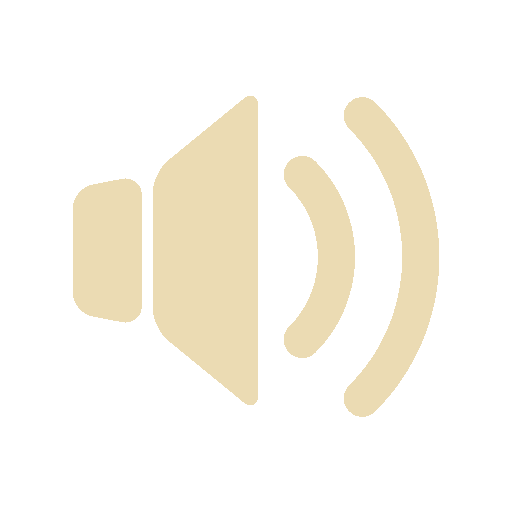
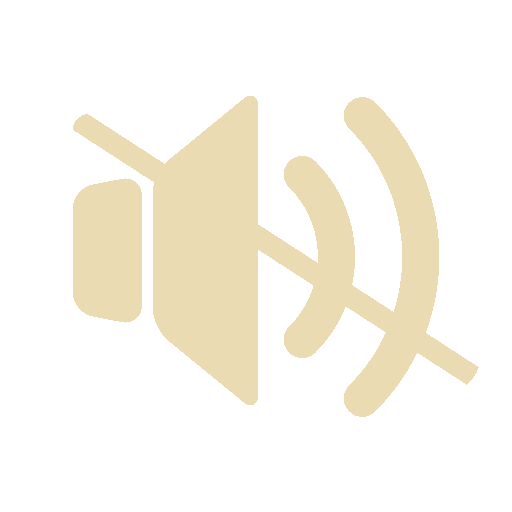
setting子buttong

diff --git a/CoreAnimationLearning/ViewController.m b/CoreAnimationLearning/ViewController.m
@@ -21,6 +21,7 @@
 
 @interface ViewController ()<UIAlertViewDelegate,IAPManagerDelegate,GameCenterDelegate>
 @property(nonatomic,assign) BOOL isUserHavedLoginGameCenter;
+@property(nonatomic,assign) BOOL voiceClosed;
 @end
 
 @implementation ViewController
@@ -128,13 +129,20 @@
     
     
     UIView *baseView = [self.view viewWithTag:30001];
+    NSArray *subViews = [baseView subviews];
     
     if (baseView) {
         [UIView animateWithDuration:1 delay:0 usingSpringWithDamping:0.4 initialSpringVelocity:10 options:UIViewAnimationOptionCurveEaseIn animations:^{
             buttonSetting.transform = CGAffineTransformIdentity;
-            baseView.alpha = 0.0;
         } completion:^(BOOL isFinish){
             [baseView removeFromSuperview];
+        }];
+        
+        [UIView animateWithDuration:0.3 animations:^{
+            for (UIView *subView in subViews) {
+                subView.frame = CGRectMake(0, 0, 0, 0);
+            }
+            baseView.frame = CGRectMake(buttonSetting.frame.origin.x + buttonSetting.frame.size.width, buttonSetting.frame.origin.y+buttonSetting.frame.size.height, 0, 0);
         }];
     }
     else{
@@ -176,11 +184,35 @@
             buttonSetting.transform = CGAffineTransformMakeRotation(M_PI);
             baseView.frame = CGRectMake(baseViewWidthInsert, buttonSetting.frame.size.height + buttonSetting.frame.origin.y + baseViewHeightInsert, baseViewWidth, baseViewHeight);
             for (int i = 0; i < count; i++) {
+                UIImage *buttonImage = [UIImage imageNamed:[NSString stringWithFormat:@"image_setting_%d",i+1]];
                 UIButton *subButton = [mutArray objectAtIndex:i];
+                [subButton setImage:buttonImage forState:UIControlStateNormal];
+                subButton.tag = 40000+i;
+                [subButton addTarget:self action:@selector(buttonPressedsubSetting:) forControlEvents:UIControlEventTouchUpInside];
                 subButton.frame = CGRectMake(subButtonInsertHeade + subButtonInsert*(i+1) + subButtonSize*i, subBUttonInsertTop, subButtonSize, subButtonSize);
             }
         } completion:^(BOOL isFinish){
         }];
+    }
+}
+
+-(void)buttonPressedsubSetting:(id)sender{
+    UIButton *button = (UIButton *)sender;
+    self.voiceClosed = !self.voiceClosed;
+    int i = button.tag - 40000;
+    switch (i) {
+        case 0:
+        {
+            if (self.voiceClosed) {
+                [button setImage:[UIImage imageNamed:@"image_setting_1_open"] forState:UIControlStateNormal];
+            }else{
+                [button setImage:[UIImage imageNamed:@"image_setting_1"] forState:UIControlStateNormal];
+            }
+        }
+            break;
+            
+        default:
+            break;
     }
 }
 
